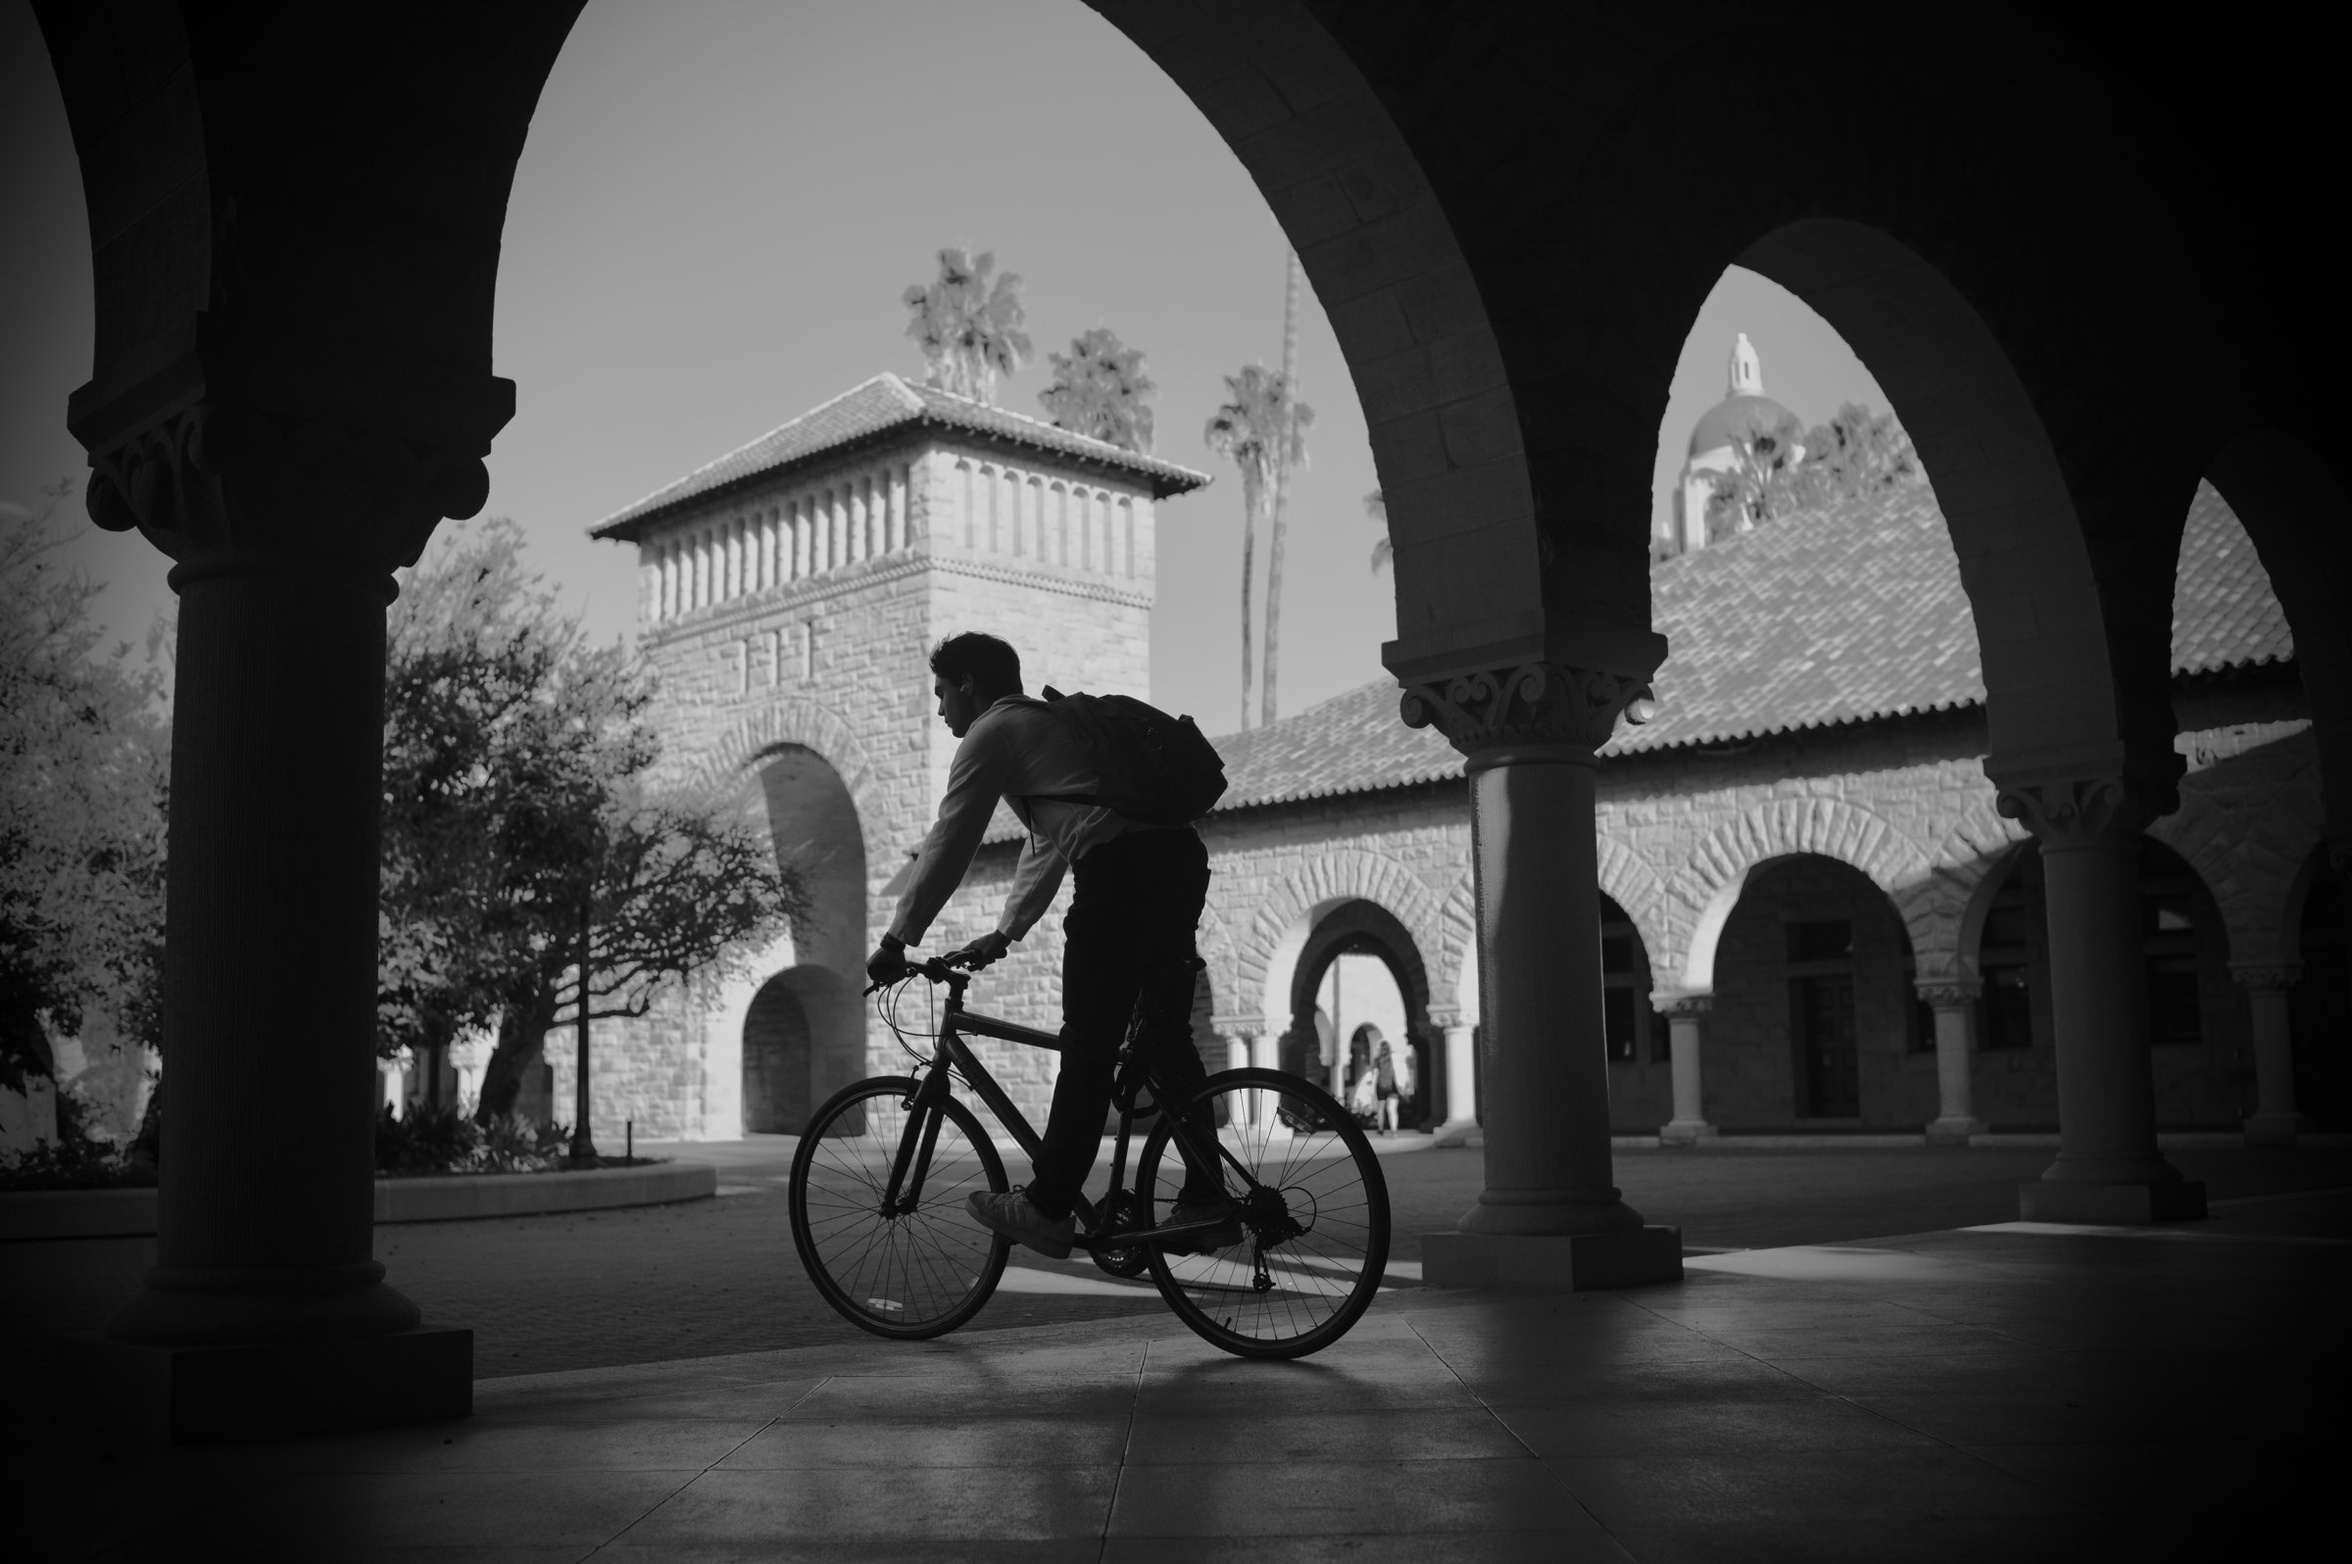
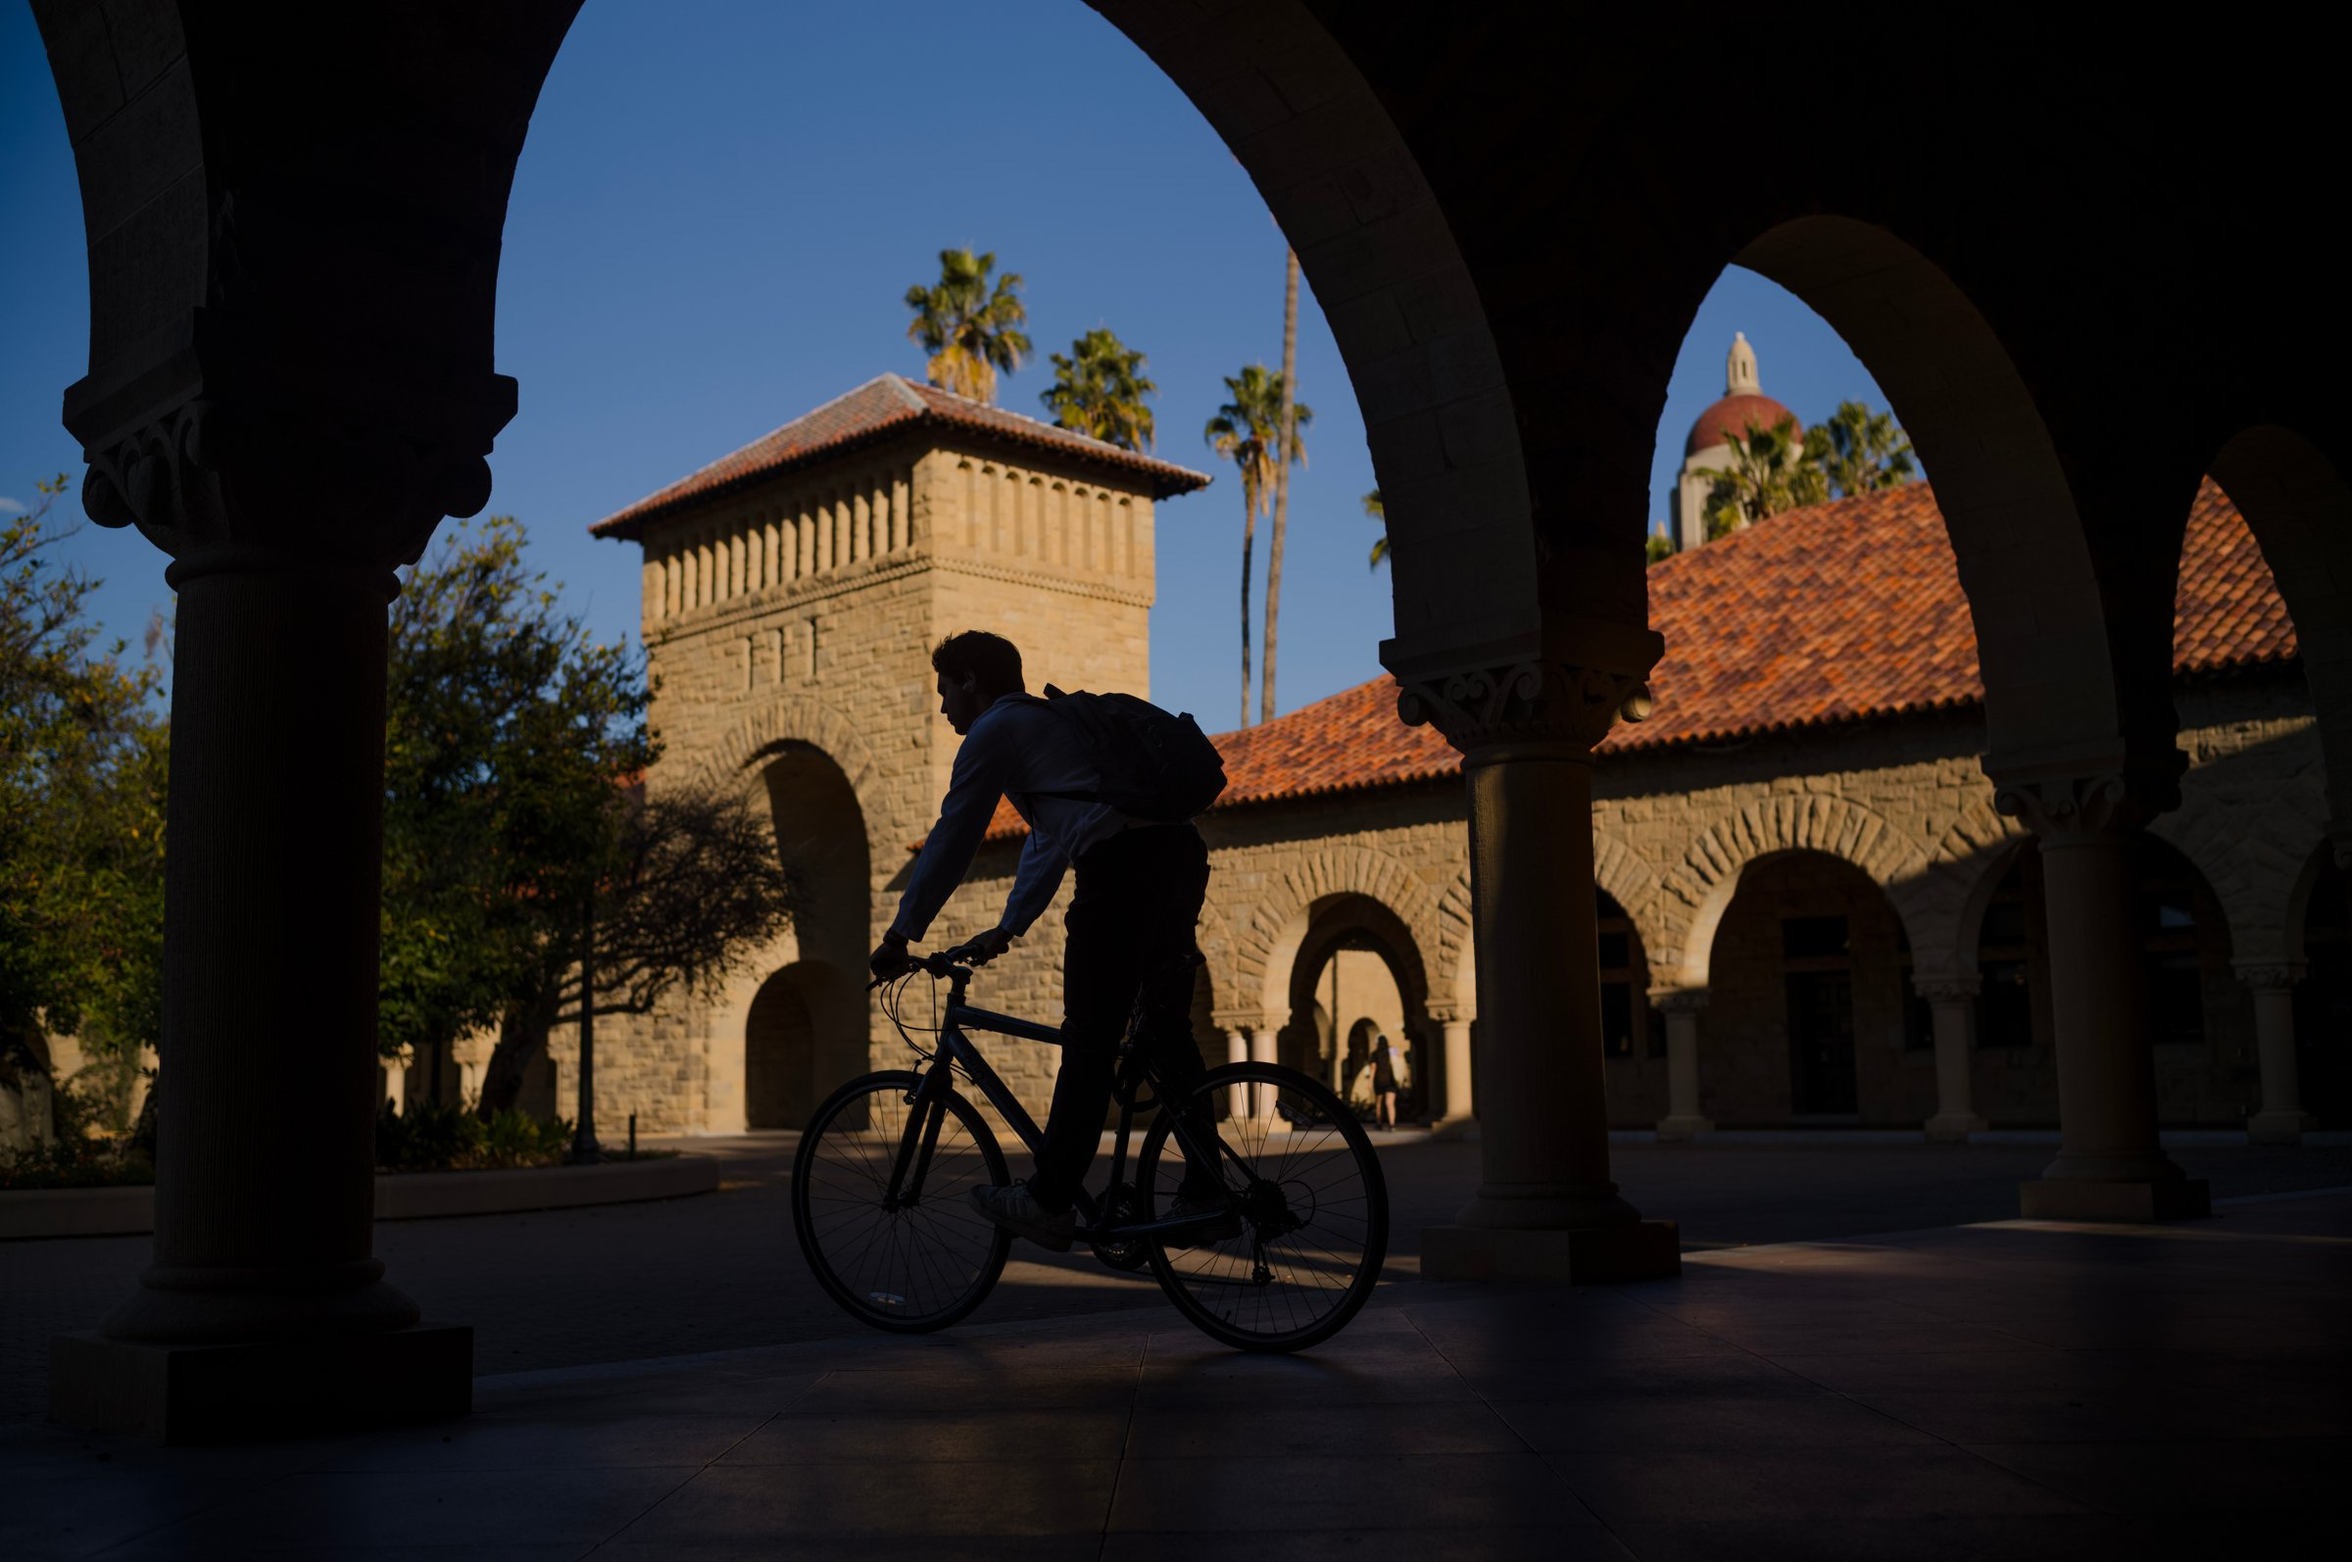
Use color version of print 39
Claude-Session: https://claude.ai/code/session_011Dc8RxBgUsJ4Xq75xfpyrg

diff --git a/shop.js b/shop.js
@@ -48,7 +48,7 @@ var PRINTS = [
   { handle: 'print-36', title: 'Fine Art Print - No. 36', img: 'assets/photos/36.jpg', alt: 'Sandstone arcade with Hoover Tower and parked bicycles, black and white' },
   { handle: 'print-37', title: 'Fine Art Print - No. 37', img: 'assets/photos/37.jpg', alt: 'Couple walking past a lake in silhouette, black and white' },
   { handle: 'print-38', title: 'Fine Art Print - No. 38', img: 'assets/photos/38.jpg', alt: 'Vintage silver sports car parked under trees' },
-  { handle: 'print-39', title: 'Fine Art Print - No. 39', img: 'assets/photos/39.jpg', alt: 'Cyclist passing through a stone arcade, black and white' },
+  { handle: 'print-39', title: 'Fine Art Print - No. 39', img: 'assets/photos/39.jpg', alt: 'Cyclist in silhouette passing through a sandstone arcade under a blue sky' },
   { handle: 'print-40', title: 'Fine Art Print - No. 40', img: 'assets/photos/40.jpg', alt: 'Hoover Tower and a sandstone arcade at dusk' },
   { handle: 'print-41', title: 'Fine Art Print - No. 41', img: 'assets/photos/41.jpg', alt: 'Three men posing on the balcony of a modern building, black and white' },
   { handle: 'print-42', title: 'Fine Art Print - No. 42', img: 'assets/photos/42.jpg', alt: 'Person climbing a curved concrete stairway, black and white' },
